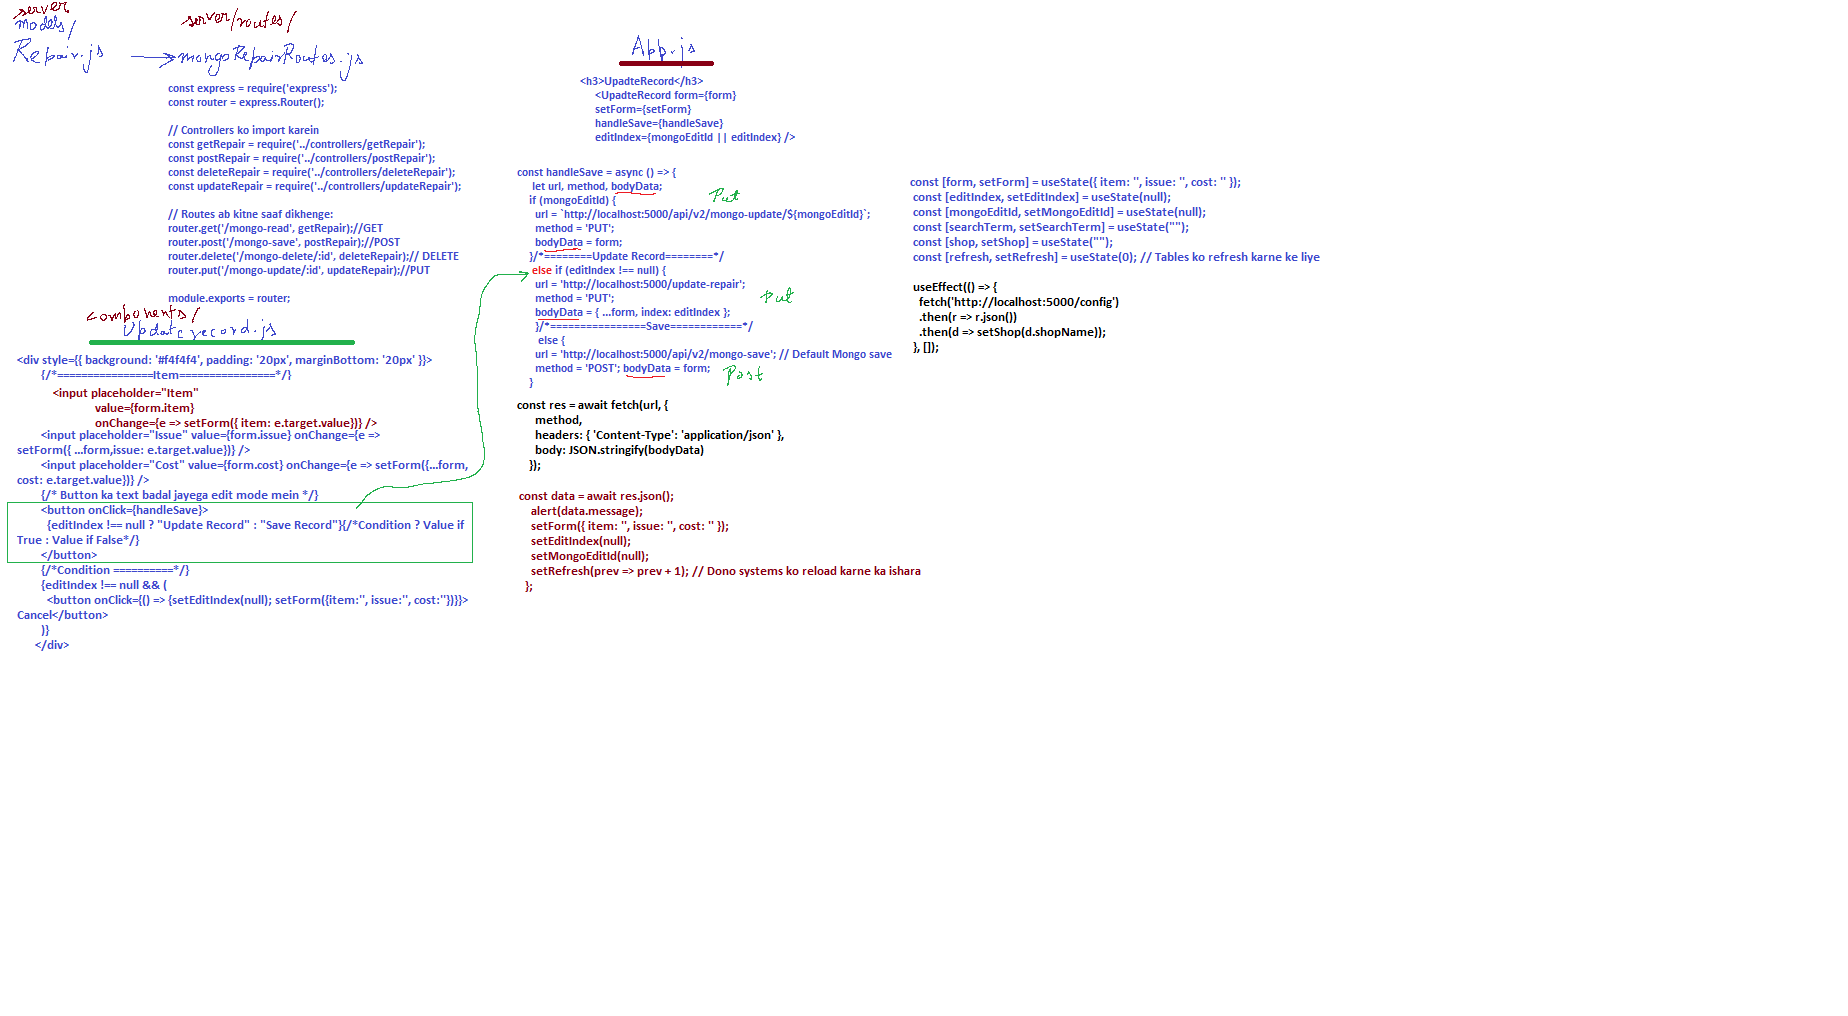
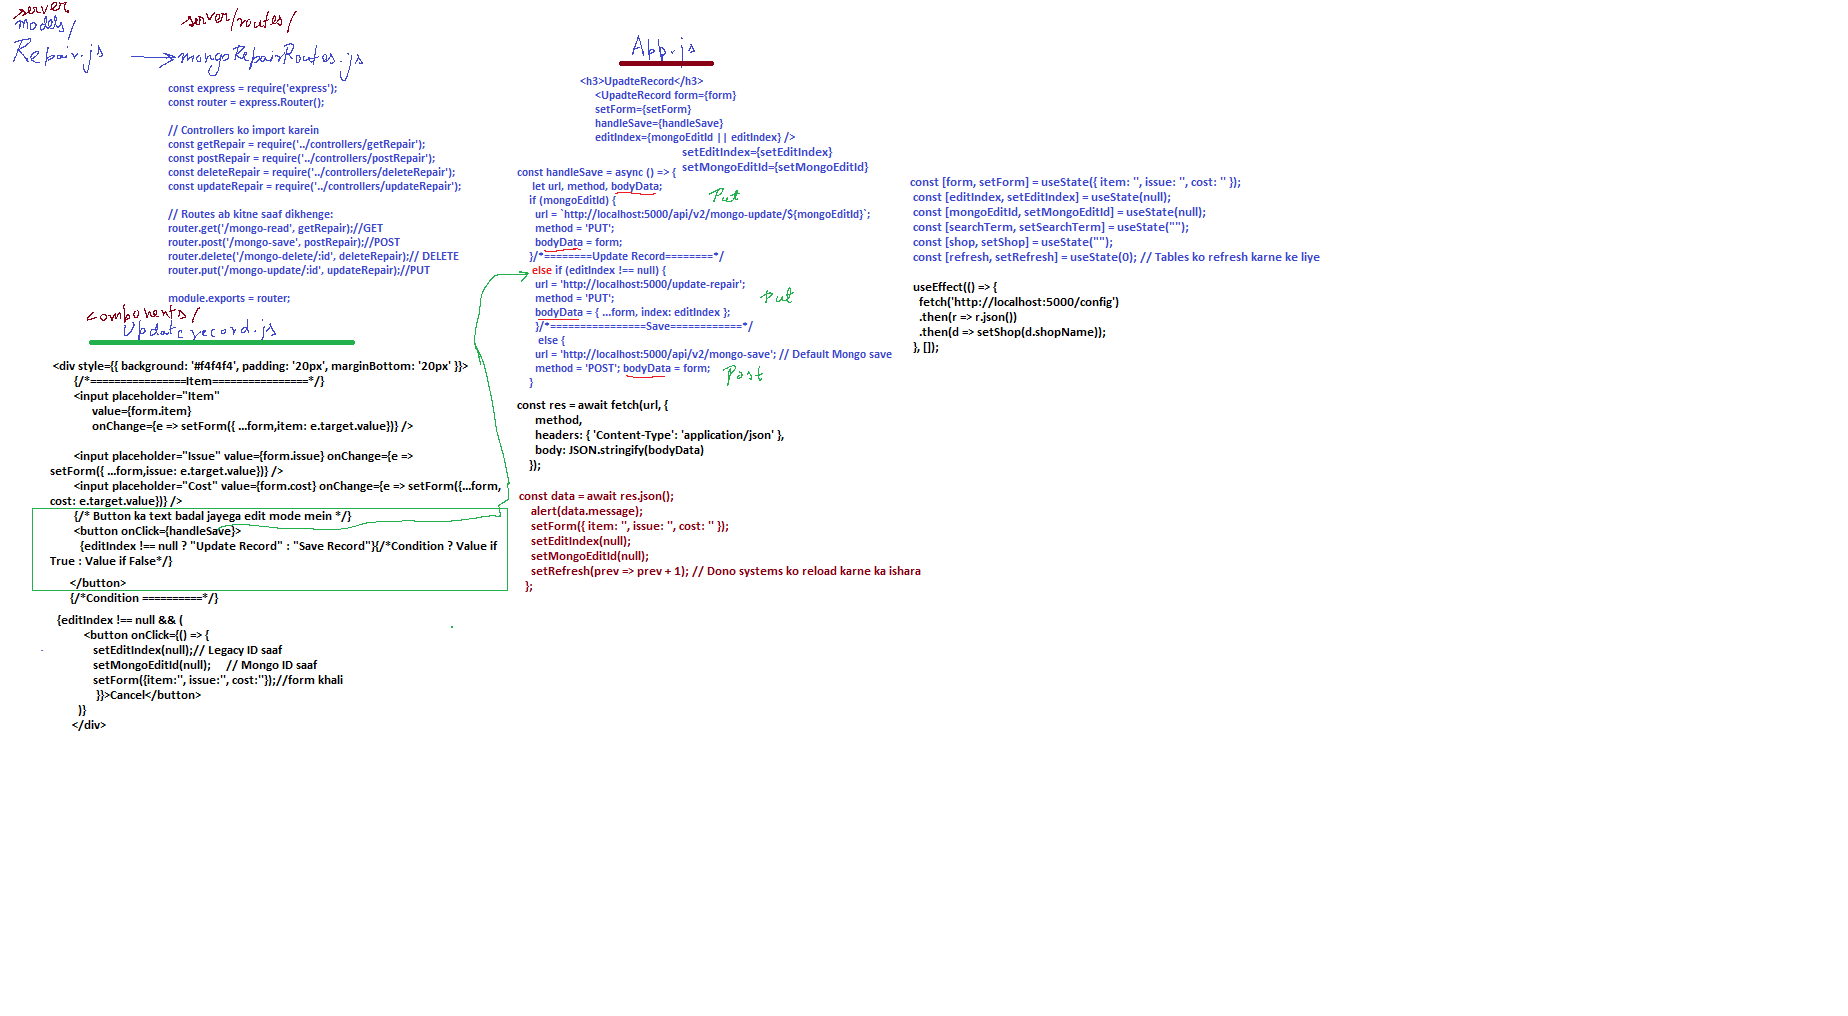
Update

Changed region(s): [[0.0, 0.3356, 0.2776, 0.7323], [0.3701, 0.122, 0.4627, 0.1831]]

diff --git a/client/src/App.js b/client/src/App.js
@@ -18,21 +18,24 @@ function App() {
   }, []);
 /*================handleSave==================================*/
   const handleSave = async () => {
-    console.log("inside handleSave"); 
-    let url, method, bodyData;
-    console.log("mongoEditId :"+mongoEditId);
-    console.log("editIndex :"+editIndex);
+   let url, method, bodyData;
+    console.log("inside App.js/handleSave--------------"); 
+    console.log("mongoEditId = "+mongoEditId);
+    console.log("editIndex = "+editIndex);
     if (mongoEditId) {
+      console.log("inside_____Update MongoDbRecord_____________");
       url = `http://localhost:5000/api/v2/mongo-update/${mongoEditId}`;
       method = 'PUT'; 
       bodyData = form;
-    }/*========Update Record========*/
-     else if (editIndex !== null) { 
+    }/*========Update Legacy System Record========*/
+     else if (editIndex !== null) {
+      console.log("inside Update Legacy System record=====+====>"); 
       url = 'http://localhost:5000/update-repair';
       method = 'PUT'; 
       bodyData = { ...form, index: editIndex };
+      
       }/*================Save============*/
-       else {
+       else {console.log("inside---MongoDb Save------ bodyData = ",bodyData);
       url = 'http://localhost:5000/api/v2/mongo-save'; // Default Mongo save
       method = 'POST'; bodyData = form;
     }
@@ -49,7 +52,7 @@ function App() {
     setEditIndex(null); 
     setMongoEditId(null);
     setRefresh(prev => prev + 1); // Dono systems ko reload karne ka ishara
-  };
+  };//end const handleSave
 
   return (
     <div style={{ textAlign: 'center', padding: '20px' }}>

diff --git a/client/src/components/UpdateRecord.js b/client/src/components/UpdateRecord.js
@@ -1,8 +1,10 @@
 import React from 'react';
 function UpdateRecord({ form, setForm, handleSave, editIndex, setEditIndex, setMongoEditId }) {
   // 👇 YAHAN PAR LIKHNA HAI (Return se theek pehle)
-    console.log("React ki asli state:", form);
+  console.log("inside UpdateRecord.js-----------");  
+  console.log("React ki asli state:", form);
     console.log("editIndex ="+editIndex);
+    console.log("===============================");
 return(
        <div style={{ background: '#f4f4f4', padding: '20px', marginBottom: '20px' }}>
         {/*================Item================*/}
@@ -26,9 +28,7 @@ return(
              setEditIndex(null);// Legacy ID saaf
              setMongoEditId(null);     // Mongo ID saaf
              setForm({item:'', issue:'', cost:''});//form khali
-              }}>
-                Cancel
-                </button>
+              }}>Cancel</button>
         )}
       </div>
 

diff --git a/server/index.js b/server/index.js
@@ -22,6 +22,7 @@ app.get('/config', (req, res) => {
 });
   // Saare repair routes ko use karein
 app.use('/', repairRoutes);
+//diverts traffic to mongoRepairRoutes
 app.use('/api/v2', mongoRepairRoutes); // Iska path alag rakhte hain taaki confusion na ho
 //const FILE_NAME = 'database.txt';
 // 6. Port Start